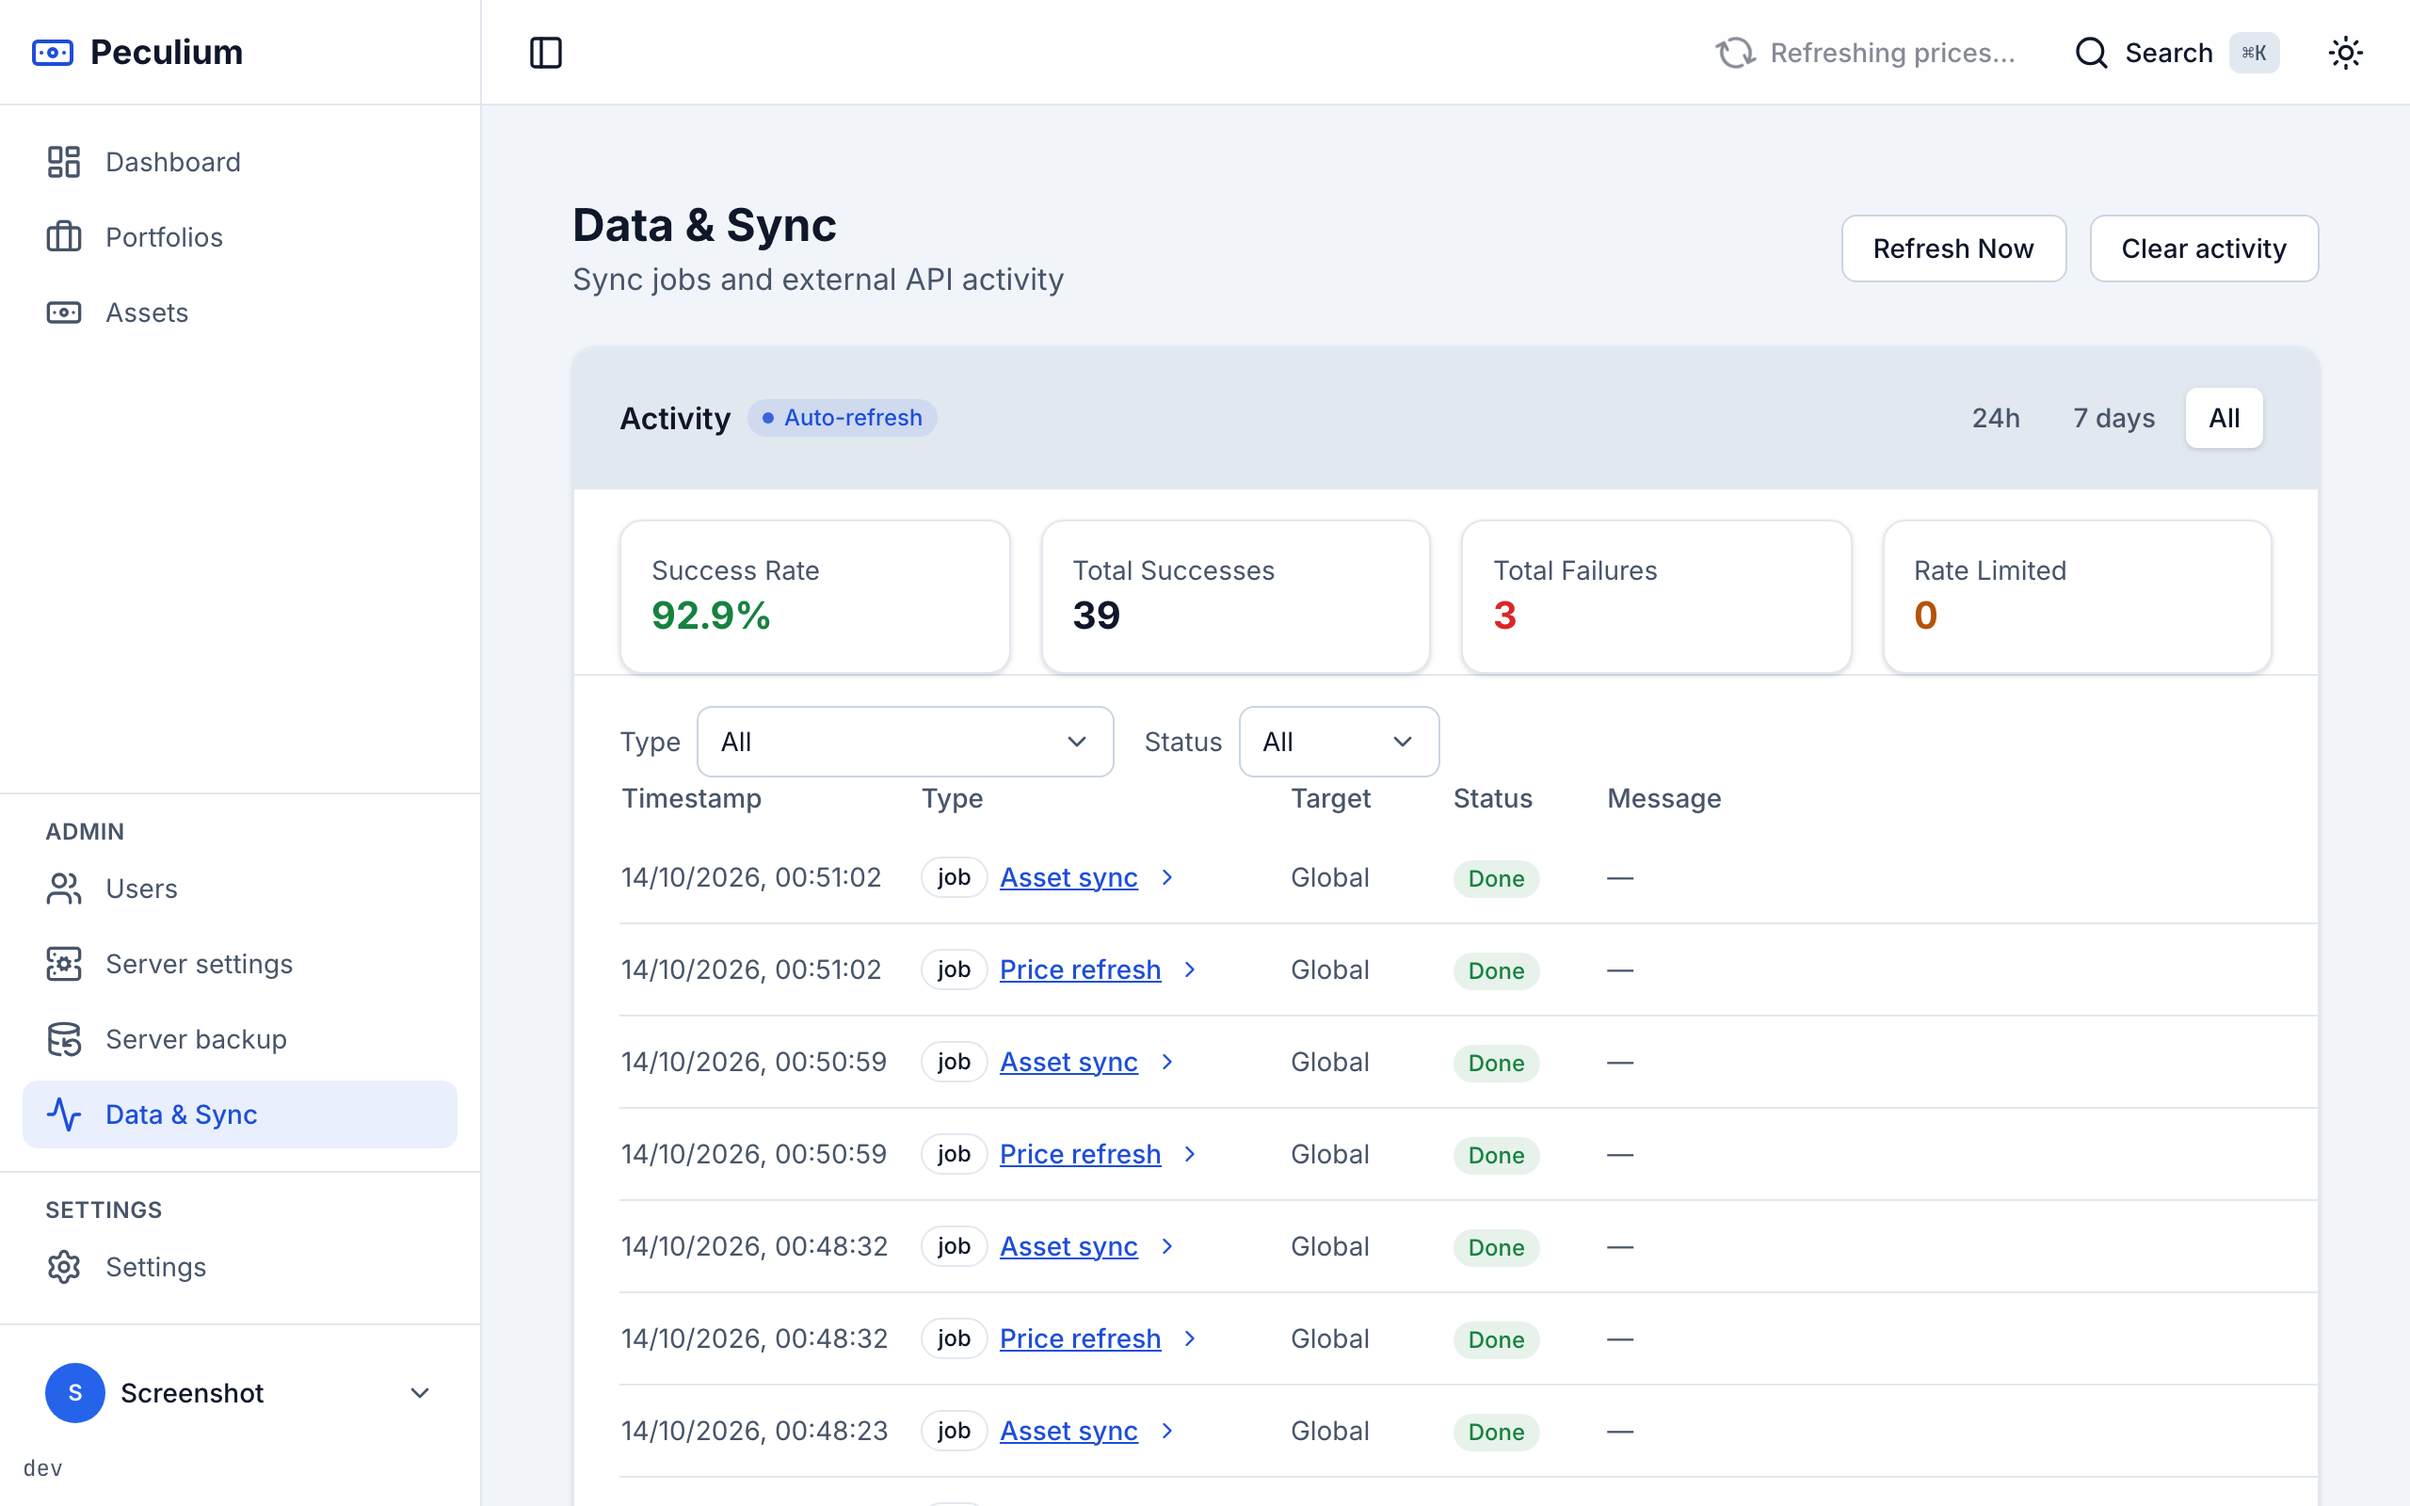
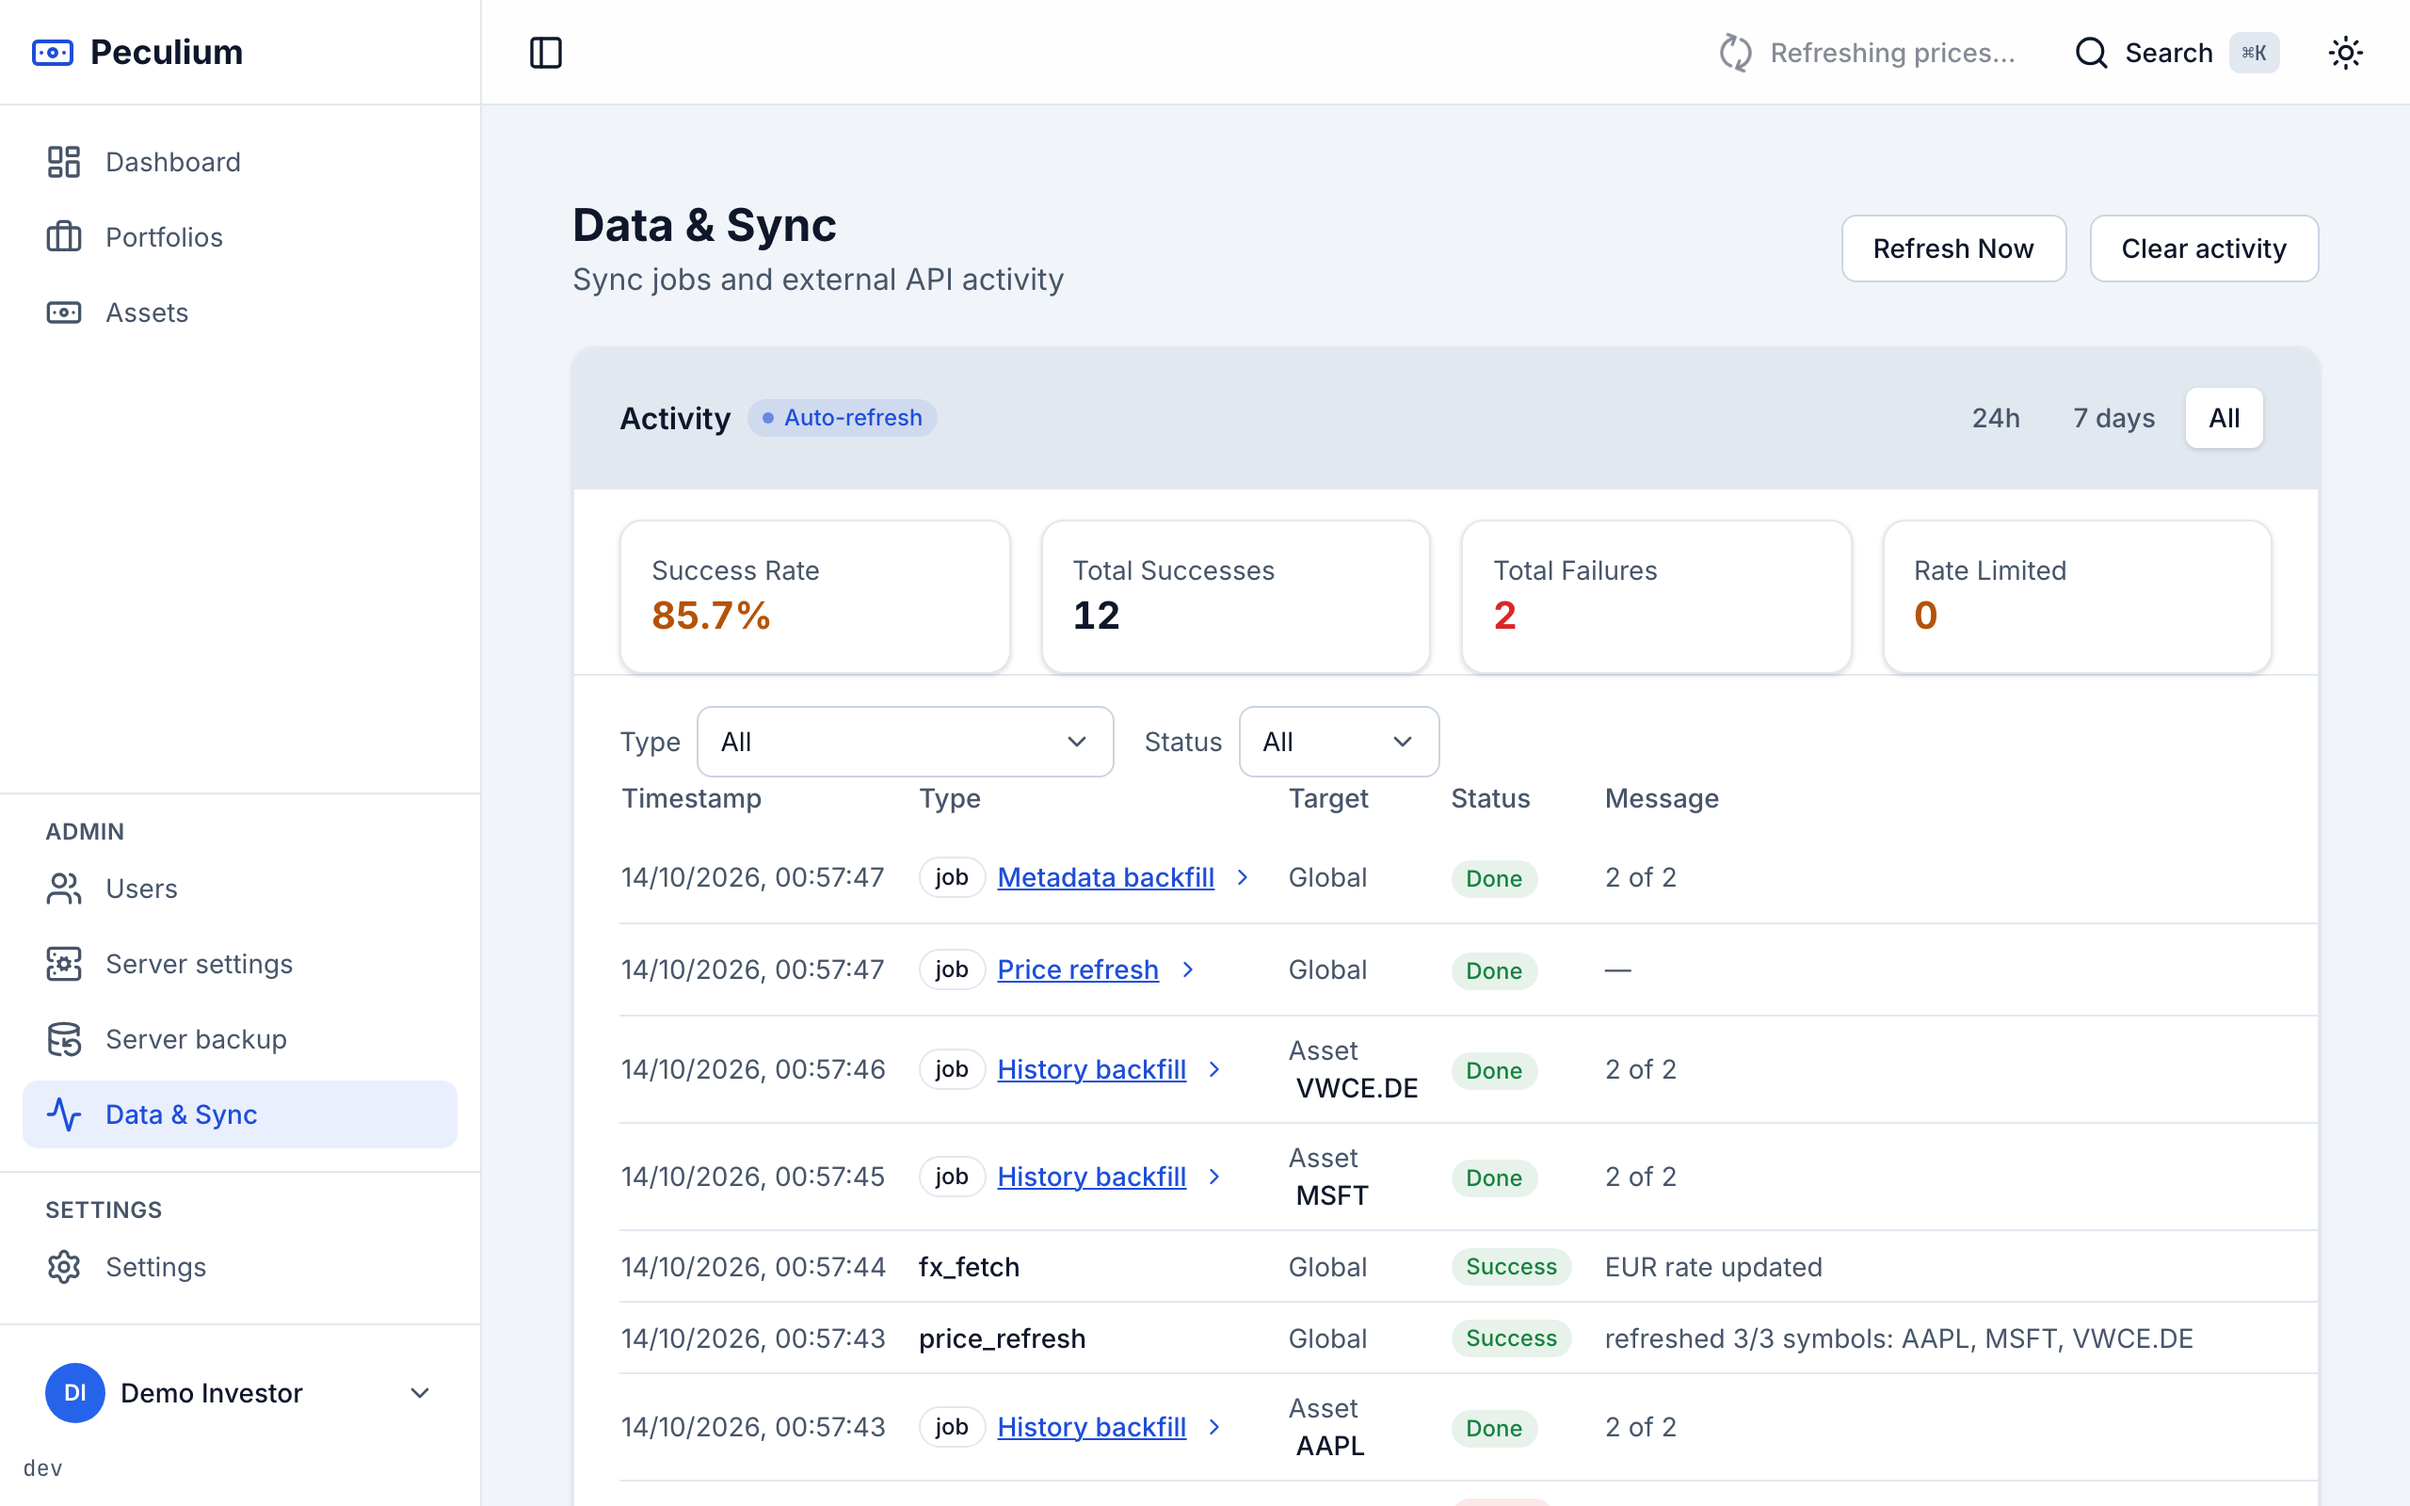
docs(website): recapture Data & Sync screenshots with the Demo Investor account

diff --git a/website/public/screenshots/README.md b/website/public/screenshots/README.md
@@ -33,11 +33,13 @@ DevTools Protocol**, the only way to pin the exact spec (a 1280×800 viewport at
 
 Prerequisites — all on the **isolated test stack**, never the dev/prod one:
 
-1. Test backend on `:8081` with a seeded user:
-   `podman-compose -p peculium-test -f docker-compose.test.yml up -d --build backend`
-   (register/login a user via `POST /api/v1/auth/register` + `/login`, see
-   `tests/api-test.http`). The test compose has no worker: to have activity rows
-   on a page, run a worker image on the same network by hand.
+1. Test backend on `:8081` with a seeded user named **Demo Investor**
+   (register/login via `POST /api/v1/auth/register` + `/login`, see
+   `tests/api-test.http`) — the sidebar shows the account name, so every
+   screenshot must use the same one. Start the stack with
+   `podman-compose -p peculium-test -f docker-compose.test.yml up -d --build backend`.
+   The test compose has no worker: to have activity rows on a page, run a worker
+   image on the same network by hand.
 2. Frontend dev server whose `/api` proxy points at `:8081`: temporarily set
    `server.proxy['/api'].target` to `http://localhost:8081` in
    `frontend/vite.config.ts`, then `cd frontend && npm run dev -- --host`.
